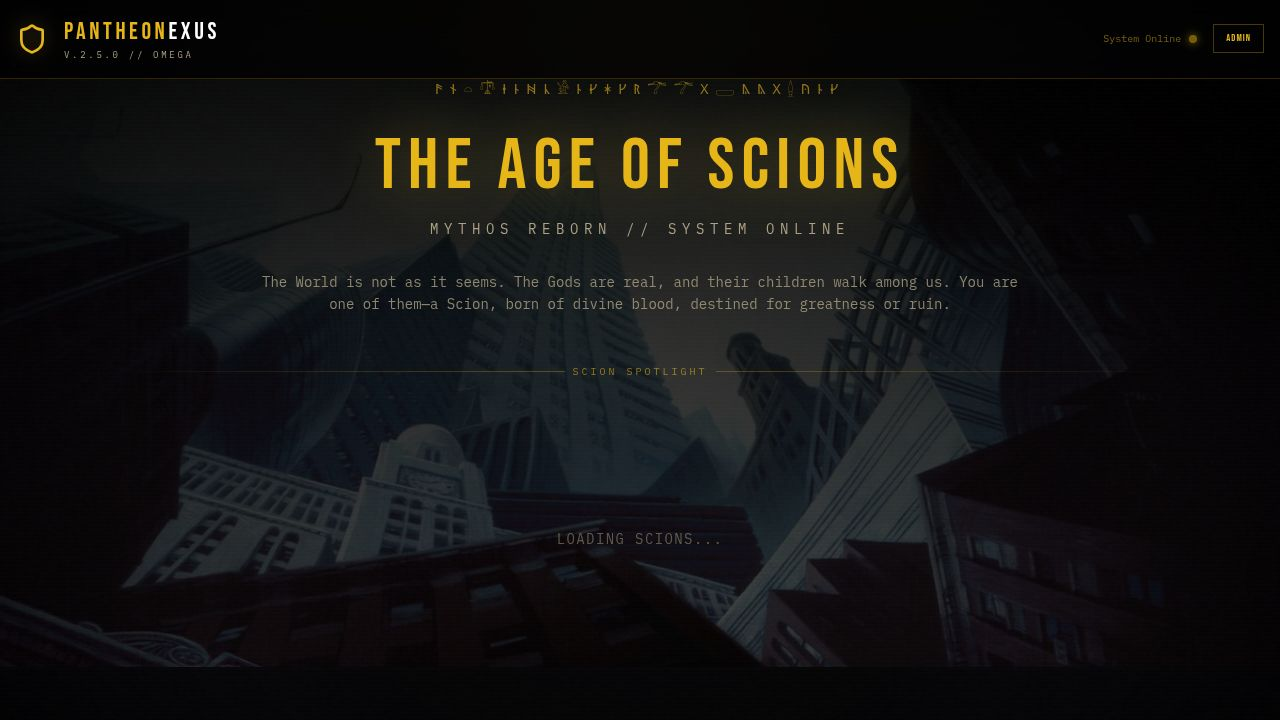
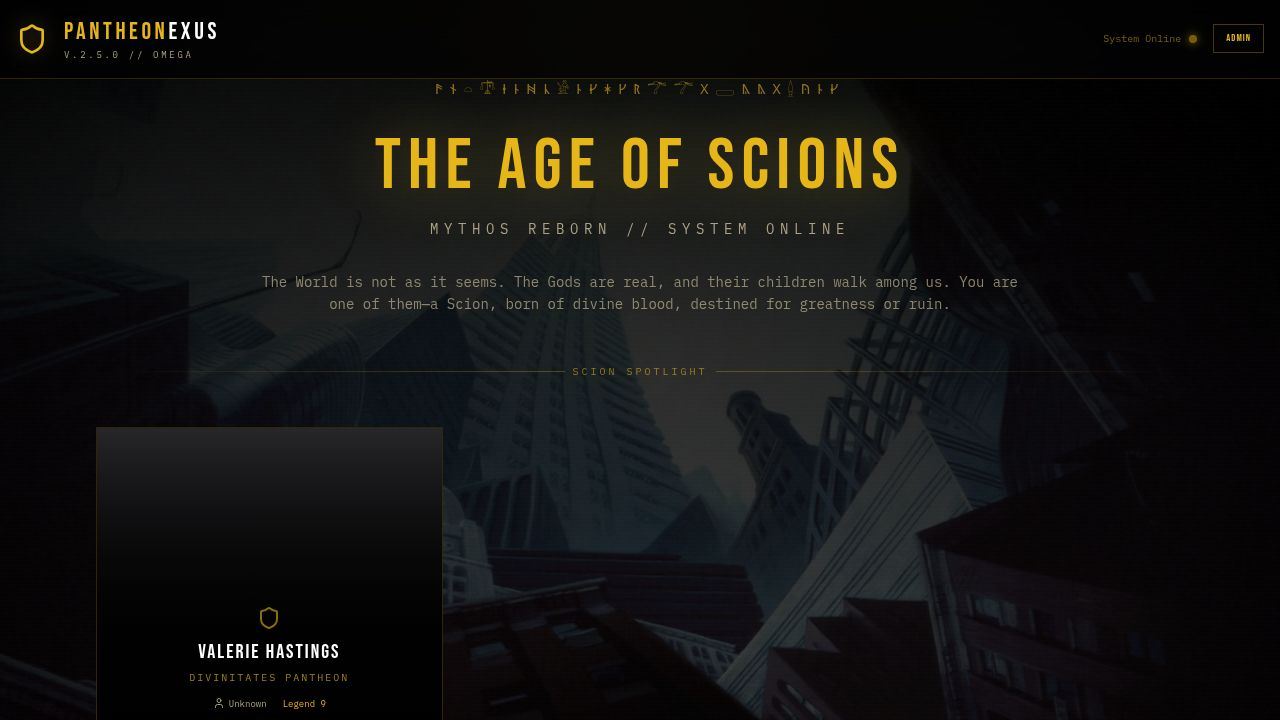
Add sound effects for various user interactions on the character sheet
Integrates audio feedback for actions such as expanding/collapsing sections, editing, saving, tab switching, and rating changes by adding sound effect functions to `lib/sounds.ts` and calling them from `character-sheet.tsx` and `dot-rating.tsx`.

Replit-Commit-Author: Agent
Replit-Commit-Session-Id: 4d83f060-1792-4806-afe7-bbb21cb824ef
Replit-Commit-Checkpoint-Type: full_checkpoint
Replit-Commit-Event-Id: e4d53fc6-602f-4146-adfc-a054faf1b26b
Replit-Commit-Screenshot-Url: https://storage.googleapis.com/screenshot-production-us-central1/890c8229-f419-4736-a63e-8685bf7ca89a/4d83f060-1792-4806-afe7-bbb21cb824ef/FIH7nbO
Replit-Helium-Checkpoint-Created: true

diff --git a/client/src/pages/character-sheet.tsx b/client/src/pages/character-sheet.tsx
@@ -26,6 +26,7 @@ import darkGoldTexture from "@assets/generated_images/digital_hieroglyph_dark_ba
 import divineDivider from "@assets/generated_images/mythic_tech_divider_line.png";
 import cornerTech from "@assets/generated_images/art_deco_mythic_corner_tech_ornament.png";
 import bgTech from "@assets/generated_images/ancient_high_tech_background_texture.png";
+import { playClick, playExpand, playCollapse, playToggle, playSave, playEdit, playTabSwitch, playDotChange } from "@/lib/sounds";
 
 
 const ViewportDropdown = ({ children, className, show }: { children: React.ReactNode; className?: string; show: boolean }) => {
@@ -293,7 +294,7 @@ const CyberSection = ({
             )}
 
             <button 
-                onClick={onToggle}
+                onClick={() => { onToggle(); collapsed ? playExpand() : playCollapse(); }}
                 className={cn(
                     "w-full flex items-center justify-between px-5 py-2.5 transition-colors cursor-pointer relative",
                     isYellow
@@ -324,7 +325,7 @@ const CyberSection = ({
                 <div className="flex items-center gap-2">
                     {onEditToggle && !collapsed && (
                         <button
-                            onClick={(e) => { e.stopPropagation(); onEditToggle(); }}
+                            onClick={(e) => { e.stopPropagation(); onEditToggle(); isEditing ? playSave() : playEdit(); }}
                             className={cn(
                                 "h-6 px-2 flex items-center gap-1.5 border text-[9px] font-code uppercase tracking-wider transition-all rounded-sm",
                                 isYellow
@@ -1676,12 +1677,13 @@ export default function CharacterSheet() {
 
   // Create edit handlers for each section
   const createEditHandlers = (isEditing: boolean, setEditing: (v: boolean) => void) => ({
-    onEdit: () => setEditing(true),
+    onEdit: () => { setEditing(true); playEdit(); },
     onSave: () => {
       handleSave();
       setEditing(false);
+      playSave();
     },
-    onCancel: () => setEditing(false),
+    onCancel: () => { setEditing(false); playClick(); },
   });
 
   // Loading state
@@ -1741,7 +1743,7 @@ export default function CharacterSheet() {
                 </div>
                 <div className="flex items-center gap-2">
                   <Link href="/">
-                    <button className="flex items-center gap-2 text-[10px] font-display uppercase tracking-widest text-primary border border-primary/30 px-3 py-1 hover:bg-primary/10 transition-colors rounded-sm hover:shadow-[0_0_10px_rgba(212,175,55,0.2)] group">
+                    <button onClick={() => playClick()} className="flex items-center gap-2 text-[10px] font-display uppercase tracking-widest text-primary border border-primary/30 px-3 py-1 hover:bg-primary/10 transition-colors rounded-sm hover:shadow-[0_0_10px_rgba(212,175,55,0.2)] group">
                       <ArrowLeft className="w-3 h-3 group-hover:-translate-x-1 transition-transform" /> BACK TO PANT-HOME
                     </button>
                   </Link>
@@ -1808,7 +1810,7 @@ export default function CharacterSheet() {
                               {['identity', 'professional'].map((tab) => (
                                   <button
                                     key={tab}
-                                    onClick={() => setIdCardTab(tab as any)}
+                                    onClick={() => { setIdCardTab(tab as any); playTabSwitch(); }}
                                     className={cn(
                                       "text-[9px] uppercase tracking-[0.2em] font-display transition-colors pb-1 relative",
                                       idCardTab === tab ? "text-primary" : "text-muted-foreground hover:text-primary/70"
@@ -2007,7 +2009,7 @@ export default function CharacterSheet() {
                     <div className="space-y-2">
                         <ScionInput 
                             label="Deep Analysis" 
-                            className="h-16 text-xs bg-black/40 border-[#834DFB]/20 resize-none"
+                            className="h-16 text-xs text-gray-400 bg-black/40 border-[#834DFB]/20 resize-none"
                             textarea
                             value={psychicProfile.analysis}
                             onChange={(e) => setPsychicProfile({...psychicProfile, analysis: e.target.value})}
@@ -2016,14 +2018,14 @@ export default function CharacterSheet() {
                         <div className="grid grid-cols-2 gap-2">
                             <ScionInput 
                                 label="Keywords" 
-                                className="h-7 text-xs bg-black/40 border-[#834DFB]/20"
+                                className="h-7 text-xs text-gray-400 bg-black/40 border-[#834DFB]/20"
                                 value={psychicProfile.keywords}
                                 onChange={(e) => setPsychicProfile({...psychicProfile, keywords: e.target.value})}
                                 viewMode={!editingIdentity}
                             />
                             <ScionInput 
                                 label="Major Arcana" 
-                                className="h-7 text-xs bg-black/40 border-[#834DFB]/20 text-[#834DFB]"
+                                className="h-7 text-xs bg-black/40 border-[#834DFB]/20 text-[#a78bfa]"
                                 value={psychicProfile.majorArcana}
                                 onChange={(e) => setPsychicProfile({...psychicProfile, majorArcana: e.target.value})}
                                 viewMode={!editingIdentity}
@@ -2032,14 +2034,14 @@ export default function CharacterSheet() {
                         <div className="grid grid-cols-2 gap-2">
                             <ScionInput 
                                 label="Temperament" 
-                                className="h-7 text-xs bg-black/40 border-[#834DFB]/20"
+                                className="h-7 text-xs text-gray-400 bg-black/40 border-[#834DFB]/20"
                                 value={psychicProfile.temperament}
                                 onChange={(e) => setPsychicProfile({...psychicProfile, temperament: e.target.value})}
                                 viewMode={!editingIdentity}
                             />
                             <ScionInput 
                                 label="Cognitive Type" 
-                                className="h-7 text-xs bg-black/40 border-[#834DFB]/20"
+                                className="h-7 text-xs text-gray-400 bg-black/40 border-[#834DFB]/20"
                                 value={psychicProfile.cognitiveType}
                                 onChange={(e) => setPsychicProfile({...psychicProfile, cognitiveType: e.target.value})}
                                 viewMode={!editingIdentity}
@@ -2048,14 +2050,14 @@ export default function CharacterSheet() {
                         <div className="grid grid-cols-2 gap-2">
                             <ScionInput 
                                 label="Strengths" 
-                                className="h-7 text-xs bg-black/40 border-[#834DFB]/20 text-green-400/80"
+                                className="h-7 text-xs bg-black/40 border-[#834DFB]/20 text-green-400/60"
                                 value={psychicProfile.strengths}
                                 onChange={(e) => setPsychicProfile({...psychicProfile, strengths: e.target.value})}
                                 viewMode={!editingIdentity}
                             />
                             <ScionInput 
                                 label="Weaknesses" 
-                                className="h-7 text-xs bg-black/40 border-[#834DFB]/20 text-red-400/80"
+                                className="h-7 text-xs bg-black/40 border-[#834DFB]/20 text-red-400/60"
                                 value={psychicProfile.weaknesses}
                                 onChange={(e) => setPsychicProfile({...psychicProfile, weaknesses: e.target.value})}
                                 viewMode={!editingIdentity}
@@ -2063,7 +2065,7 @@ export default function CharacterSheet() {
                         </div>
                         <ScionInput 
                             label="Behaviors" 
-                            className="h-7 text-xs bg-black/40 border-[#834DFB]/20"
+                            className="h-7 text-xs text-gray-400 bg-black/40 border-[#834DFB]/20"
                             value={psychicProfile.behaviors}
                             onChange={(e) => setPsychicProfile({...psychicProfile, behaviors: e.target.value})}
                             viewMode={!editingIdentity}
@@ -2191,21 +2193,21 @@ export default function CharacterSheet() {
                         <div className="grid grid-cols-3 gap-2">
                             <ScionInput 
                                 label="Height" 
-                                className="h-7 text-xs bg-black/40 border-[#F0E100]/20"
+                                className="h-7 text-xs text-gray-400 bg-black/40 border-[#F0E100]/20"
                                 value={presenceProfile.height}
                                 onChange={(e) => setPresenceProfile({...presenceProfile, height: e.target.value})}
                                 viewMode={!editingIdentity}
                             />
                             <ScionInput 
                                 label="Eye Color" 
-                                className="h-7 text-xs bg-black/40 border-[#F0E100]/20"
+                                className="h-7 text-xs text-gray-400 bg-black/40 border-[#F0E100]/20"
                                 value={presenceProfile.eyeColor}
                                 onChange={(e) => setPresenceProfile({...presenceProfile, eyeColor: e.target.value})}
                                 viewMode={!editingIdentity}
                             />
                             <ScionInput 
                                 label="Hair Color" 
-                                className="h-7 text-xs bg-black/40 border-[#F0E100]/20"
+                                className="h-7 text-xs text-gray-400 bg-black/40 border-[#F0E100]/20"
                                 value={presenceProfile.hairColor}
                                 onChange={(e) => setPresenceProfile({...presenceProfile, hairColor: e.target.value})}
                                 viewMode={!editingIdentity}
@@ -2214,14 +2216,14 @@ export default function CharacterSheet() {
                         <div className="grid grid-cols-2 gap-2">
                             <ScionInput 
                                 label="Aura Signature" 
-                                className="h-7 text-xs bg-black/40 border-[#F0E100]/20 text-[#F0E100]"
+                                className="h-7 text-xs bg-black/40 border-[#F0E100]/20 text-[#d4c84a]"
                                 value={presenceProfile.auraSignature}
                                 onChange={(e) => setPresenceProfile({...presenceProfile, auraSignature: e.target.value})}
                                 viewMode={!editingIdentity}
                             />
                             <ScionInput 
                                 label="Scent / Essence" 
-                                className="h-7 text-xs bg-black/40 border-[#F0E100]/20"
+                                className="h-7 text-xs text-gray-400 bg-black/40 border-[#F0E100]/20"
                                 value={presenceProfile.scent}
                                 onChange={(e) => setPresenceProfile({...presenceProfile, scent: e.target.value})}
                                 viewMode={!editingIdentity}
@@ -2229,21 +2231,21 @@ export default function CharacterSheet() {
                         </div>
                         <ScionInput 
                             label="Fashion & Style" 
-                            className="h-7 text-xs bg-black/40 border-[#F0E100]/20"
+                            className="h-7 text-xs text-gray-400 bg-black/40 border-[#F0E100]/20"
                             value={presenceProfile.fashion}
                             onChange={(e) => setPresenceProfile({...presenceProfile, fashion: e.target.value})}
                             viewMode={!editingIdentity}
                         />
                         <ScionInput 
                             label="Distinguishing Marks" 
-                            className="h-7 text-xs bg-black/40 border-[#F0E100]/20"
+                            className="h-7 text-xs text-gray-400 bg-black/40 border-[#F0E100]/20"
                             value={presenceProfile.distinguishingMark}
                             onChange={(e) => setPresenceProfile({...presenceProfile, distinguishingMark: e.target.value})}
                             viewMode={!editingIdentity}
                         />
                         <ScionInput 
                             label="Visual Notes" 
-                            className="h-16 text-xs bg-black/40 border-[#F0E100]/20 resize-none"
+                            className="h-16 text-xs text-gray-400 bg-black/40 border-[#F0E100]/20 resize-none"
                             textarea
                             value={presenceProfile.visualNotes}
                             onChange={(e) => setPresenceProfile({...presenceProfile, visualNotes: e.target.value})}

diff --git a/client/src/lib/sounds.ts b/client/src/lib/sounds.ts
@@ -1,0 +1,65 @@
+let audioCtx: AudioContext | null = null;
+
+function getAudioContext(): AudioContext {
+  if (!audioCtx) {
+    audioCtx = new AudioContext();
+  }
+  return audioCtx;
+}
+
+function playTone(freq: number, duration: number, type: OscillatorType = "sine", volume = 0.08, freqEnd?: number) {
+  try {
+    const ctx = getAudioContext();
+    const osc = ctx.createOscillator();
+    const gain = ctx.createGain();
+    osc.type = type;
+    osc.frequency.setValueAtTime(freq, ctx.currentTime);
+    if (freqEnd) {
+      osc.frequency.exponentialRampToValueAtTime(freqEnd, ctx.currentTime + duration);
+    }
+    gain.gain.setValueAtTime(volume, ctx.currentTime);
+    gain.gain.exponentialRampToValueAtTime(0.001, ctx.currentTime + duration);
+    osc.connect(gain);
+    gain.connect(ctx.destination);
+    osc.start(ctx.currentTime);
+    osc.stop(ctx.currentTime + duration);
+  } catch {}
+}
+
+export function playClick() {
+  playTone(1800, 0.06, "square", 0.04);
+  setTimeout(() => playTone(2400, 0.04, "square", 0.03), 30);
+}
+
+export function playExpand() {
+  playTone(400, 0.15, "sine", 0.06, 800);
+}
+
+export function playCollapse() {
+  playTone(800, 0.12, "sine", 0.05, 400);
+}
+
+export function playToggle() {
+  playTone(1200, 0.05, "triangle", 0.05);
+  setTimeout(() => playTone(1600, 0.05, "triangle", 0.04), 50);
+}
+
+export function playSave() {
+  playTone(600, 0.08, "sine", 0.06);
+  setTimeout(() => playTone(900, 0.08, "sine", 0.06), 80);
+  setTimeout(() => playTone(1200, 0.1, "sine", 0.05), 160);
+}
+
+export function playEdit() {
+  playTone(1000, 0.06, "triangle", 0.05);
+  setTimeout(() => playTone(1400, 0.08, "triangle", 0.04), 60);
+}
+
+export function playTabSwitch() {
+  playTone(2000, 0.04, "sine", 0.03);
+  setTimeout(() => playTone(2600, 0.05, "sine", 0.03), 40);
+}
+
+export function playDotChange() {
+  playTone(1500, 0.05, "triangle", 0.04, 2000);
+}

diff --git a/client/src/components/ui/dot-rating.tsx b/client/src/components/ui/dot-rating.tsx
@@ -1,6 +1,7 @@
 import React from "react";
 import { cn } from "@/lib/utils";
 import { motion } from "framer-motion";
+import { playDotChange } from "@/lib/sounds";
 
 export interface DotRatingProps {
   value: number;
@@ -30,7 +31,7 @@ export function DotRating({
       {dots.map((dot) => (
         <button
           key={dot}
-          onClick={() => !readOnly && onChange?.(dot === value ? 0 : dot)}
+          onClick={() => { if (!readOnly) { onChange?.(dot === value ? 0 : dot); playDotChange(); } }}
           className={cn(
             "rounded-[1px] transition-all duration-300 relative focus:outline-none",
             iconClassName || "w-3 h-3 md:w-4 md:h-4"
